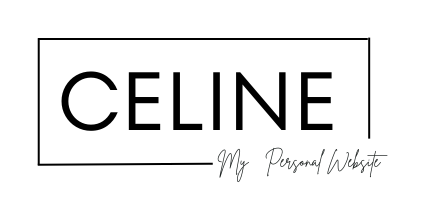
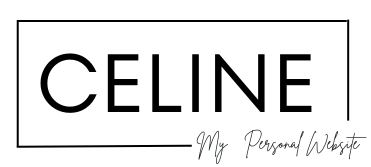
changed the about me description and adjusted font sizes

Changed region(s): [[0.0296, 0.1198, 0.9784, 0.988]]

diff --git a/style.css b/style.css
@@ -58,10 +58,10 @@ nav ul li a:hover::after{
 }
 .header-text{
     margin-top: 10%;
-    font-size: 30 px;
+    font-size: 40 px;
 }
 .header-text h1{
-    font-size: 60px;
+    font-size: 70px;
     margin-top: 20px;
 }
 .header-text h1 span{
@@ -153,7 +153,7 @@ nav ul li a:hover::after{
     background: #E5BCFF;
     color: #080808;
     padding: 40px;
-    font-size: 13px;
+    font-size: 20px;
     font-weight: 300;
     border-radius: 10px;
     transition: background 0.5s, transform 0.5s;
@@ -172,7 +172,7 @@ nav ul li a:hover::after{
 .services-list div a{
     text-decoration: none;
     color: #080808;
-    font-size: 12px;
+    font-size: 15px;
     margin-top: 20px;
     display: inline-block;
 }
@@ -222,7 +222,7 @@ nav ul li a:hover::after{
     flex-direction: column;
     padding: 0 40px;
     text-align: center;
-    font-size: 14px;
+    font-size: 16px;
     transition: height 0.5s;
 }
 .layer h3{

diff --git a/index.html b/index.html
@@ -44,7 +44,13 @@
                 <h1 class="sub-title">About Me</h1>
                 <p>My name is Celine and welcome to my personal website! 
                     <br>
-                    I used HTML, CSS, and Java to create what you see. 
+                    I am currently a first-year student at Rensselaer Polytechnic Institute as a Computer Science major.
+                    <br>
+                    I created this personal website for my RCOS project.
+                    <br>
+                    I used HTML, CSS, and Java to create this website from scratch.
+                    <br>
+                    Also, I am using Git Pages to host my website. 
                 </p>
 
                 <div class="tab-titles">
